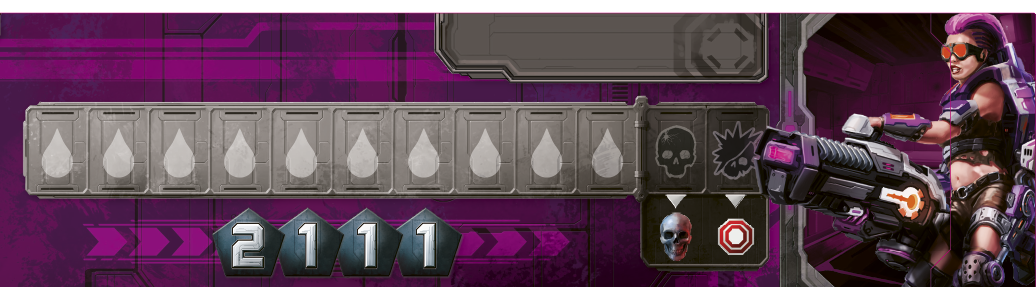
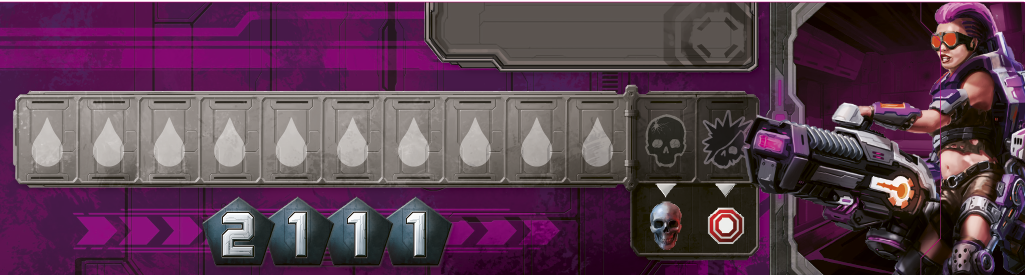
change franze images and set action button disable in frenzy mode

diff --git a/src/main/java/it/polimi/se2019/ui/Controller.java b/src/main/java/it/polimi/se2019/ui/Controller.java
@@ -2112,6 +2112,12 @@ public class Controller implements Initializable {
         ArrayList<Image> images = setFrenzyCharacter(ControllerLogin.clientView.getPlayerCopy().getCharacter().getId());
         yourCharacter.setImage(images.get(0));
         possibleActions.setImage(images.get(1));
+        moveButton.setDisable(true);
+        moveButton.setVisible(false);
+        grabButton.setDisable(true);
+        grabButton.setVisible(false);
+        shootButton.setDisable(true);
+        shootButton.setVisible(false);
     }
 
     /**
